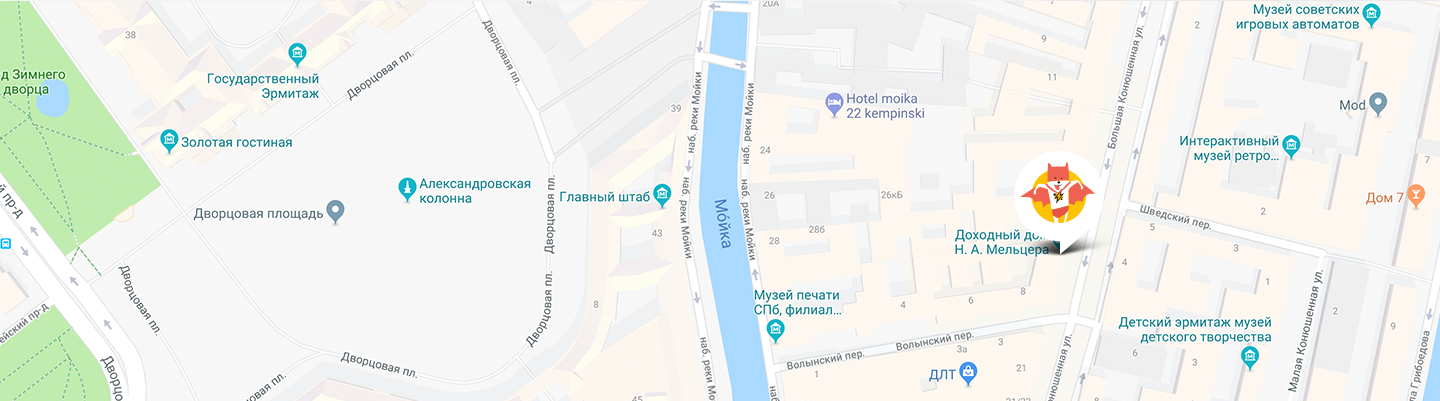
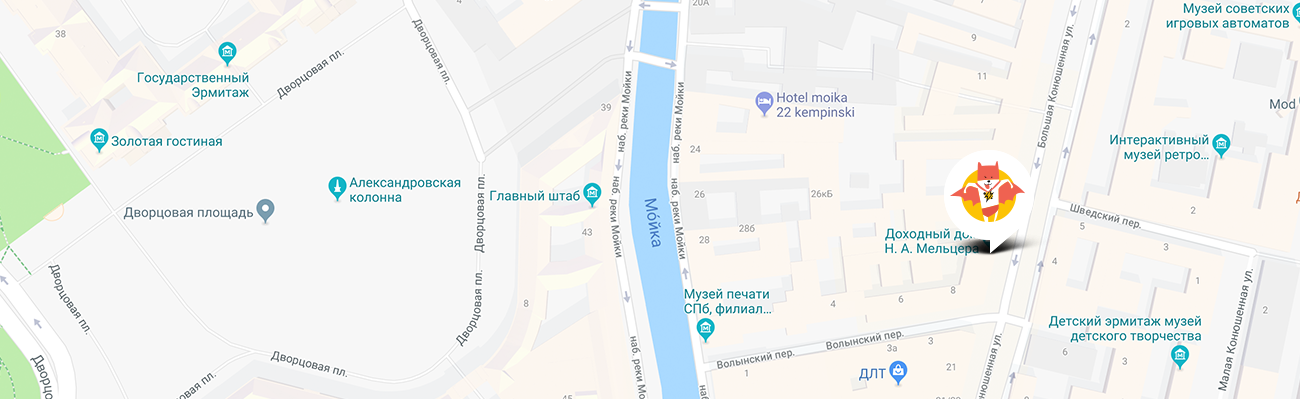
img size change

diff --git a/source/less/blocks/collaborate.less b/source/less/blocks/collaborate.less
@@ -217,10 +217,9 @@
 
   .collaborate__image {
     width: 100%;
-    height: 399px;
+    height: auto;
     top: 0;
     z-index: 400;
     margin-top: 0;
-    transform: scaleX(1.1);
   }
 }
